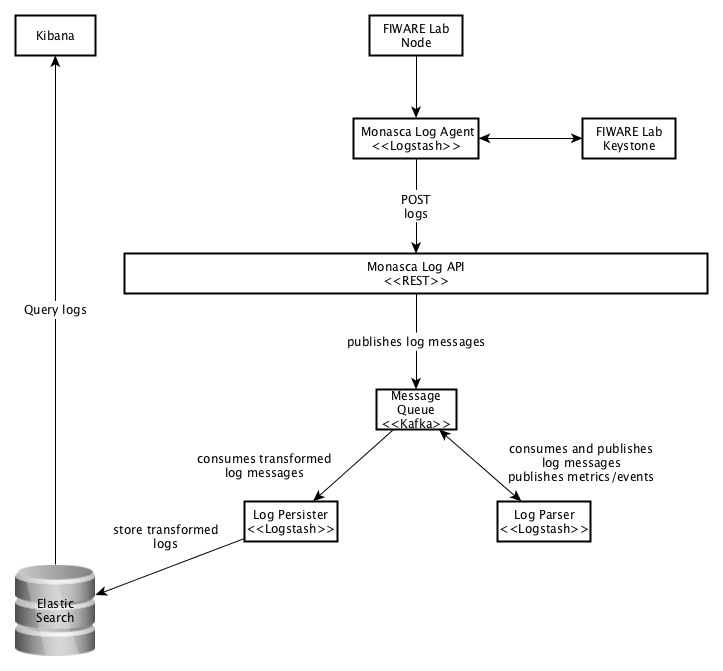
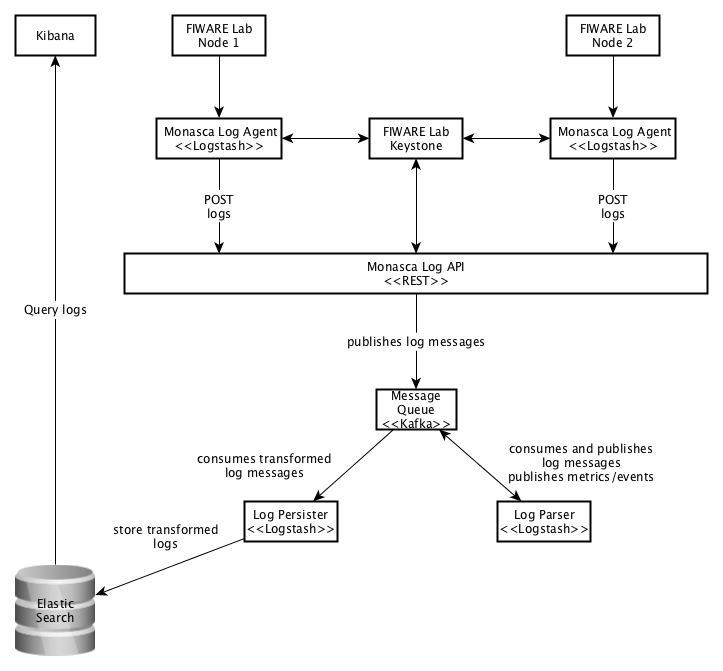
architecture.md: adjusted image with two FIWARE Lab Nodes; refined text

diff --git a/doc/architecture.md b/doc/architecture.md
@@ -4,10 +4,10 @@ The architecture of the system can be depicted as follows:
 
 The logs are sent using syslog from [FIWARE Lab][1] Nodes to the Monasca Log Agent, installed on a remote machine.
 
-Then, after authenticating to the FIWARE Lab Keystone, the Monasca Log Agent sends the logs to the Monasca Log API. The logs are then published into the Kafka message queue.
+The Monasca Log Agent sends the logs to the Monasca Log API. Both the Agent and the API must be authenticated to the FIWARE Lab Keystone to function properly.
 
-In Kafka, two topics for publishing logs are defined: `monasca-log` and `logstash-log`. The first topic is for logs that are published by the Monasca Log API and received by the Log Parser. The second topic is for logs that are transformed and published by the Log Parser and received by the Log Persister.
+The Monasca Log API publishes the logs into the Kafka message queue. In Kafka, two topics for publishing logs are created: `monasca-log` and `logstash-log`. The first topic is for logs that are published by the Monasca Log API and received by the Log Parser. The second topic is for logs that are transformed and published by the Log Parser and received by the Log Persister.
 
-Then, the Log Persister defines the indexing for each log message and sends them to Elasticsearch for storage. After the logs are stored, they can be searched and visualized in Kibana, a front-end application to Elasticsearch.
+The Log Persister defines the indexing for each log message and sends them to Elasticsearch for storage. After the logs are stored, they can be searched and visualized in Kibana, a front-end application for Elasticsearch.
 
 [1]:https://www.fiware.org/lab/
